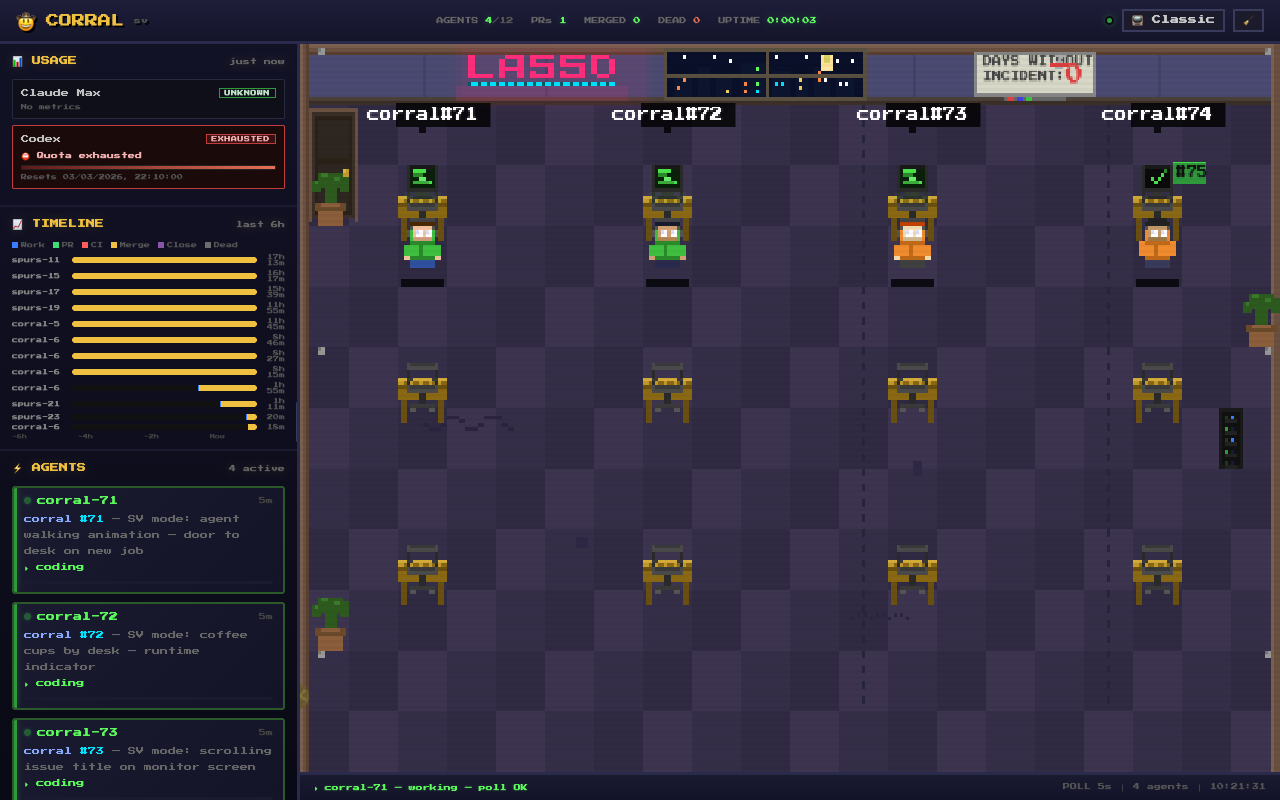
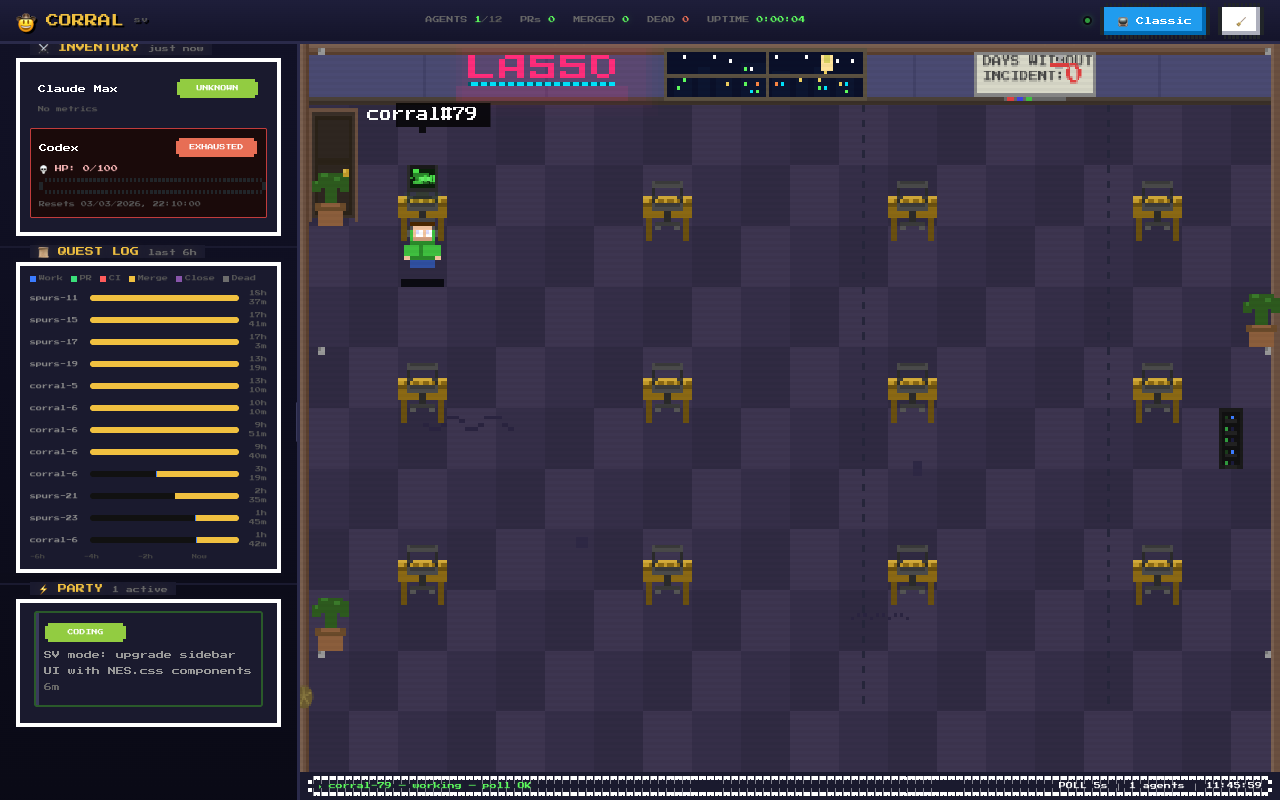
SV mode: upgrade sidebar UI with NES.css components
Integrate NES.css framework into the SV view sidebar for a retro game
interface feel. Agent cards use nes-container with nes-badge status
indicators and nes-progress token bars. Usage section styled as RPG
inventory with HP labels and heart icons. Timeline wrapped as Quest Log.
Buttons upgraded to nes-btn. All dark theme maintained with custom
overrides. Mobile responsive layout preserved.

diff --git a/sv.html b/sv.html
@@ -5,6 +5,7 @@
 <meta name="viewport" content="width=device-width, initial-scale=1.0">
 <title>Corral 🤠 — SV Mode</title>
 <link href="https://fonts.googleapis.com/css2?family=Press+Start+2P&display=swap" rel="stylesheet">
+<link href="https://unpkg.com/nes.css@2.3.0/css/nes.min.css" rel="stylesheet" />
 <style>
   * { margin: 0; padding: 0; box-sizing: border-box; }
   body {
@@ -385,6 +386,43 @@
   /* No-data message */
   .no-data { color: #555; font-size: 7px; text-align: center; padding: 12px; }
 
+  /* === NES.CSS DARK THEME OVERRIDES === */
+  .nes-container.is-dark {
+    background: #1a1a2e;
+    padding: 8px 10px;
+    margin-bottom: 0;
+    position: relative;
+  }
+  .nes-container.is-dark.with-title > .title {
+    background-color: #1a1a2e;
+    color: #f0c040;
+    font-size: 9px;
+    text-shadow: 0 0 8px #f0c04022;
+  }
+  .nes-container.is-dark::after {
+    box-shadow: inset -4px -4px #2a2a4a;
+  }
+  .nes-container.is-dark::before {
+    box-shadow: inset -4px -4px #3a3a5c;
+  }
+  .nes-badge { white-space: nowrap; }
+  .nes-badge span { font-size: 6px; padding: 2px 6px; }
+  .nes-progress {
+    height: 8px;
+    border-color: #2a2a4a;
+    background: #0f0f1a;
+  }
+  .nes-btn {
+    font-family: 'Press Start 2P', cursive;
+    font-size: 8px;
+    padding: 4px 10px;
+  }
+  .nes-btn.is-primary { color: #fff; }
+  .nes-icon { display: inline-block; vertical-align: middle; }
+  .sidebar .nes-container {
+    border-image-repeat: stretch;
+  }
+
   /* Mobile menu button — hidden on desktop */
   .mobile-menu-btn { display: none; }
 
@@ -454,17 +492,24 @@
 
     /* Agent cards: larger touch targets */
     .agent-card {
-      padding: 12px 14px;
+      padding: 10px 12px !important;
       margin-bottom: 10px;
     }
-    .ac-top { gap: 8px; margin-bottom: 8px; }
-    .ac-pulse { width: 10px; height: 10px; }
-    .ac-name { font-size: 10px; }
-    .ac-time { font-size: 8px; }
     .ac-detail { font-size: 9px; line-height: 2.2; }
 
+    /* NES.css mobile overrides */
+    .nes-container.is-dark.with-title {
+      padding: 8px 10px;
+    }
+    .nes-container.is-dark.with-title > .title {
+      font-size: 8px;
+    }
+    .nes-badge span { font-size: 5px; }
+    .nes-btn { font-size: 7px; padding: 3px 6px; }
+    .nes-progress { height: 6px; }
+
     /* Sidebar sections: more padding */
-    .sb-section { padding: 12px 14px; }
+    .sb-section { padding: 10px 12px; }
     .sb-header { font-size: 10px; margin-bottom: 12px; }
 
     /* Scene area: responsive — fill width, auto height from aspect ratio */
@@ -523,11 +568,10 @@
     .top-title { font-size: 9px; }
     .top-title .ver { font-size: 6px; }
     .top-stats { font-size: 6px; gap: 6px 10px; }
-    .top-btn { font-size: 7px; padding: 2px 5px; }
+    .nes-btn { font-size: 6px; padding: 2px 4px; }
 
     .sb-header { font-size: 9px; }
-    .agent-card { padding: 10px 12px; }
-    .ac-name { font-size: 9px; }
+    .agent-card { padding: 8px 10px !important; }
     .ac-detail { font-size: 8px; }
 
     .status-bar { font-size: 5px; }
@@ -566,9 +610,9 @@
   </div>
   <div class="top-controls">
     <div class="conn-dot connecting" id="connDot" title="Connecting"></div>
-    <button class="top-btn" id="toggleViewBtn" onclick="switchToClassic()" title="Switch to Classic view">📺 Classic</button>
-    <button class="top-btn" id="cleanBtn" onclick="cleanAgents()">🧹</button>
-    <button class="top-btn mobile-menu-btn" id="mobileMenuBtn" onclick="toggleMobileSidebar()" title="Toggle sidebar">☰</button>
+    <button class="nes-btn is-primary" id="toggleViewBtn" onclick="switchToClassic()" title="Switch to Classic view">📺 Classic</button>
+    <button class="nes-btn" id="cleanBtn" onclick="cleanAgents()">🧹</button>
+    <button class="nes-btn mobile-menu-btn" id="mobileMenuBtn" onclick="toggleMobileSidebar()" title="Toggle sidebar">☰</button>
   </div>
 </div>
 
@@ -581,51 +625,48 @@
   <div class="sidebar" id="sidebar">
     <div class="resize-handle" id="resizeHandle"></div>
 
-    <!-- Usage -->
+    <!-- Usage / Inventory -->
     <div class="sb-section">
-      <div class="sb-header">
-        <span>📊 USAGE</span>
-        <span class="count" id="usageUpdated">—</span>
-      </div>
-      <div id="usageCards">
-        <div class="no-data">Loading usage data...</div>
-      </div>
+      <section class="nes-container is-dark with-title">
+        <p class="title">⚔ INVENTORY <span class="count" id="usageUpdated" style="font-size:7px;color:#666">—</span></p>
+        <div id="usageCards">
+          <div class="no-data">Loading usage data...</div>
+        </div>
+      </section>
     </div>
 
-    <!-- Timeline -->
+    <!-- Timeline / Quest Log -->
     <div class="sb-section">
-      <div class="sb-header">
-        <span>📈 TIMELINE</span>
-        <span class="count" id="timelineRange">—</span>
-      </div>
+      <section class="nes-container is-dark with-title">
+        <p class="title">📜 QUEST LOG <span class="count" id="timelineRange" style="font-size:7px;color:#666">—</span></p>
 
-      <div style="display:flex; gap:8px; margin-bottom:6px; font-size:6px; color:#555">
-        <span style="display:flex;align-items:center;gap:3px"><span style="width:6px;height:6px;background:#3b7cff;display:inline-block"></span>Work</span>
-        <span style="display:flex;align-items:center;gap:3px"><span style="width:6px;height:6px;background:#3adf7a;display:inline-block"></span>PR</span>
-        <span style="display:flex;align-items:center;gap:3px"><span style="width:6px;height:6px;background:#ff5c5c;display:inline-block"></span>CI</span>
-        <span style="display:flex;align-items:center;gap:3px"><span style="width:6px;height:6px;background:#f0c040;display:inline-block"></span>Merge</span>
-        <span style="display:flex;align-items:center;gap:3px"><span style="width:6px;height:6px;background:#8855aa;display:inline-block"></span>Close</span>
-        <span style="display:flex;align-items:center;gap:3px"><span style="width:6px;height:6px;background:#6c6c6c;display:inline-block"></span>Dead</span>
-      </div>
+        <div style="display:flex; gap:8px; margin-bottom:6px; font-size:6px; color:#555">
+          <span style="display:flex;align-items:center;gap:3px"><span style="width:6px;height:6px;background:#3b7cff;display:inline-block"></span>Work</span>
+          <span style="display:flex;align-items:center;gap:3px"><span style="width:6px;height:6px;background:#3adf7a;display:inline-block"></span>PR</span>
+          <span style="display:flex;align-items:center;gap:3px"><span style="width:6px;height:6px;background:#ff5c5c;display:inline-block"></span>CI</span>
+          <span style="display:flex;align-items:center;gap:3px"><span style="width:6px;height:6px;background:#f0c040;display:inline-block"></span>Merge</span>
+          <span style="display:flex;align-items:center;gap:3px"><span style="width:6px;height:6px;background:#8855aa;display:inline-block"></span>Close</span>
+          <span style="display:flex;align-items:center;gap:3px"><span style="width:6px;height:6px;background:#6c6c6c;display:inline-block"></span>Dead</span>
+        </div>
 
-      <div id="timelineRows">
-        <div class="no-data">No timeline data</div>
-      </div>
+        <div id="timelineRows">
+          <div class="no-data">No timeline data</div>
+        </div>
 
-      <div style="display:flex;justify-content:space-between;color:#444;font-size:5px;margin-top:4px;padding:0 60px 0 0">
-        <span>-6h</span><span>-4h</span><span>-2h</span><span>Now</span>
-      </div>
+        <div style="display:flex;justify-content:space-between;color:#444;font-size:5px;margin-top:4px;padding:0 60px 0 0">
+          <span>-6h</span><span>-4h</span><span>-2h</span><span>Now</span>
+        </div>
+      </section>
     </div>
 
-    <!-- Agents -->
+    <!-- Agents / Party -->
     <div class="sb-section">
-      <div class="sb-header">
-        <span>⚡ AGENTS</span>
-        <span class="count" id="agentCount">—</span>
-      </div>
-      <div id="agentCards">
-        <div class="no-data">Waiting for agent data...</div>
-      </div>
+      <section class="nes-container is-dark with-title">
+        <p class="title">⚡ PARTY <span class="count" id="agentCount" style="font-size:7px;color:#666">—</span></p>
+        <div id="agentCards">
+          <div class="no-data">Waiting for agent data...</div>
+        </div>
+      </section>
     </div>
   </div>
 
@@ -635,7 +676,7 @@
       <canvas id="office" width="640" height="384"></canvas>
       <div class="scanlines"></div>
     </div>
-    <div class="status-bar">
+    <div class="status-bar nes-container is-dark is-rounded" style="padding:0 14px;margin:0;border-radius:0">
       <span class="sb-log" id="statusLog">▸ Connecting to server...</span>
       <span>POLL 5s │ <span id="agentCountBar">0</span> agents │ <span id="clock"></span></span>
     </div>
@@ -760,6 +801,22 @@ function stateToFillClass(state) {
   return '';
 }
 
+function stateToBadgeClass(state) {
+  if (state === 'coding') return 'is-success';
+  if (state === 'waiting' || state === 'reading' || state === 'review_waiting') return 'is-primary';
+  if (state === 'merged') return 'is-warning';
+  if (state === 'exited' || state === 'dead') return 'is-error';
+  if (state === 'pr_closed') return 'is-error';
+  return 'is-primary';
+}
+
+function stateToProgressClass(state) {
+  if (state === 'coding') return 'is-success';
+  if (state === 'waiting' || state === 'reading' || state === 'review_waiting') return 'is-primary';
+  if (state === 'merged') return 'is-warning';
+  return 'is-success';
+}
+
 function formatDuration(ms) {
   const totalMins = Math.max(0, Math.floor(ms / 60000));
   const hours = Math.floor(totalMins / 60);
@@ -870,9 +927,9 @@ function renderAgentCards() {
   container.innerHTML = agents.map(agent => {
     const state = mapState(agent);
     const cardClass = stateToCardClass(state);
-    const pulseClass = stateToPulseClass(state);
     const colorClass = stateToColorClass(state);
-    const fillClass = stateToFillClass(state);
+    const badgeClass = stateToBadgeClass(state);
+    const progressClass = stateToProgressClass(state);
     const name = escapeHtml(agent.id || 'agent');
     const repo = escapeHtml(getRepoName(agent));
     const issueId = getIssueId(agent);
@@ -884,27 +941,28 @@ function renderAgentCards() {
     const elapsed = created ? formatDuration(Date.now() - created) : '—';
     const failing = isCiFailing(agent);
     const tokenPct = Math.min(100, Math.max(0, tokens / 2000));
+    const agentType = resolveAgentType(agent);
+    const typeIcon = agentType.includes('codex') ? '<i class="nes-icon coin is-small"></i>' :
+                     agentType.includes('claude') ? '<i class="nes-icon star is-small"></i>' : '';
+
+    const titleLabel = repo && issueId ? repo + '#' + escapeHtml(String(issueId)) : (repo || name);
 
     let detailLine = '';
-    if (repo) detailLine += `<span class="repo">${repo}</span>`;
-    if (issueId) detailLine += ` <span class="v-cyan">#${escapeHtml(String(issueId))}</span>`;
-    if (issueTitle) detailLine += ` — ${issueTitle}`;
-    detailLine += '<br>';
-    detailLine += `<span class="${colorClass}">▸ ${escapeHtml(stateLabel(state))}</span>`;
-    if (prNum) detailLine += ` · PR <span class="v-green">#${escapeHtml(String(prNum))}</span>`;
-    if (failing) detailLine += ` · <span class="v-red">CI ✗</span>`;
-    if (tokens) detailLine += ` · ${tokensLabel} tokens`;
+    if (issueTitle) detailLine += `<span style="color:#999">${issueTitle}</span><br>`;
+    if (prNum) detailLine += `PR <span class="v-green">#${escapeHtml(String(prNum))}</span> · `;
+    if (failing) detailLine += `<span class="v-red">CI ✗</span> · `;
+    detailLine += `<span style="color:#666">${elapsed}</span>`;
+    if (tokens) detailLine += ` · ${tokensLabel} tok`;
 
     return `
-      <div class="agent-card ${cardClass}">
-        <div class="ac-top">
-          <span class="ac-pulse ${pulseClass}"></span>
-          <span class="ac-name ${colorClass}">${name}</span>
-          <span class="ac-time">${elapsed}</span>
+      <section class="nes-container is-dark with-title agent-card ${cardClass}" style="margin-bottom:8px;padding:6px 8px">
+        <p class="title" style="font-size:8px">${typeIcon} ${escapeHtml(titleLabel)}</p>
+        <div style="display:flex;align-items:center;justify-content:space-between;margin-bottom:4px">
+          <span class="nes-badge"><span class="${badgeClass}">${escapeHtml(stateLabel(state).toUpperCase())}</span></span>
         </div>
-        <div class="ac-detail">${detailLine}</div>
-        ${fillClass ? `<div class="progress-bar"><div class="fill ${fillClass}" style="width:${tokenPct}%"></div></div>` : ''}
-      </div>
+        <div class="ac-detail" style="margin-bottom:4px">${detailLine}</div>
+        ${tokens ? `<progress class="nes-progress ${progressClass}" value="${Math.round(tokenPct)}" max="100" style="height:8px"></progress>` : ''}
+      </section>
     `;
   }).join('');
 }
@@ -943,9 +1001,9 @@ function renderUsageCards() {
         : 'Reset time unknown';
       return `
         <div class="usage-card exhausted">
-          <div class="uc-title"><span>${name}</span><span class="uc-pill pill-exhausted">EXHAUSTED</span></div>
-          <div class="uc-row" style="color:#f5b3b3">⛔ Quota exhausted</div>
-          <div class="uc-bar"><div class="uc-fill uf-red" style="width:100%"></div></div>
+          <div class="uc-title"><span>${name}</span><span class="nes-badge"><span class="is-error">EXHAUSTED</span></span></div>
+          <div class="uc-row" style="color:#f5b3b3">💀 HP: 0/100</div>
+          <progress class="nes-progress is-error" value="100" max="100" style="height:8px"></progress>
           <div class="uc-note">${escapeHtml(resetLabel)}</div>
         </div>`;
     }
@@ -958,8 +1016,7 @@ function renderUsageCards() {
     }).filter(p => p !== null);
     const highest = percents.length ? Math.max(...percents) : null;
     const level = highest === null ? 'unknown' : highest >= 0.95 ? 'alert' : highest >= 0.8 ? 'warn' : 'ok';
-    const pillClass = level === 'alert' ? 'pill-alert' : level === 'warn' ? 'pill-warn' : 'pill-ok';
-    const cardWarn = level === 'warn' ? ' warn' : level === 'alert' ? ' alert' : '';
+    const badgeClass = level === 'alert' ? 'is-error' : level === 'warn' ? 'is-warning' : 'is-success';
     const resetNote = provider.resetAt ? 'Resets ' + new Date(provider.resetAt).toLocaleString() : '';
 
     const metricsHtml = metrics.map(m => {
@@ -968,21 +1025,23 @@ function renderUsageCards() {
       if (m.utilization !== null && m.utilization !== undefined) pct = Number(m.utilization) / 100;
       else if (m.used != null && m.limit != null && m.limit > 0) pct = Math.min(1, m.used / m.limit);
       const fillWidth = pct === null ? 0 : Math.round(pct * 100);
-      const fillClass = pct === null ? 'uf-green' : pct >= 0.95 ? 'uf-red' : pct >= 0.8 ? 'uf-yellow' : 'uf-green';
+      const progressClass = pct === null ? 'is-success' : pct >= 0.95 ? 'is-error' : pct >= 0.8 ? 'is-warning' : 'is-success';
+      const remaining = pct !== null ? Math.max(0, Math.round((1 - pct) * 100)) : 100;
+      const hearts = remaining >= 75 ? '❤❤❤' : remaining >= 50 ? '❤❤🖤' : remaining >= 25 ? '❤🖤🖤' : '🖤🖤🖤';
 
       let valStr = '—';
-      if (m.unit === '%' && m.limit === 100 && m.used != null) valStr = m.used + '%';
-      else if (m.limit != null) valStr = m.used + ' / ' + m.limit + (m.unit ? ' ' + m.unit : '');
+      if (m.unit === '%' && m.limit === 100 && m.used != null) valStr = 'HP: ' + (100 - m.used) + '/100';
+      else if (m.limit != null) valStr = 'HP: ' + (m.limit - (m.used || 0)) + '/' + m.limit + (m.unit ? ' ' + m.unit : '');
       else if (m.used != null) valStr = m.used + (m.unit ? ' ' + m.unit : '');
 
       return `
-        <div class="uc-row"><span>${label}</span><span>${escapeHtml(valStr)}</span></div>
-        <div class="uc-bar"><div class="uc-fill ${fillClass}" style="width:${fillWidth}%"></div></div>`;
+        <div class="uc-row"><span>${label}</span><span>${hearts} ${escapeHtml(valStr)}</span></div>
+        <progress class="nes-progress ${progressClass}" value="${fillWidth}" max="100" style="height:8px"></progress>`;
     }).join('');
 
     return `
-      <div class="usage-card${cardWarn}">
-        <div class="uc-title"><span>${name}</span><span class="uc-pill ${pillClass}">${level.toUpperCase()}</span></div>
+      <div class="usage-card" style="border:none;background:transparent">
+        <div class="uc-title"><span>${name}</span><span class="nes-badge"><span class="${badgeClass}">${level.toUpperCase()}</span></span></div>
         ${metricsHtml || '<div class="uc-note">No metrics</div>'}
         ${resetNote ? '<div class="uc-note">' + escapeHtml(resetNote) + '</div>' : ''}
       </div>`;
